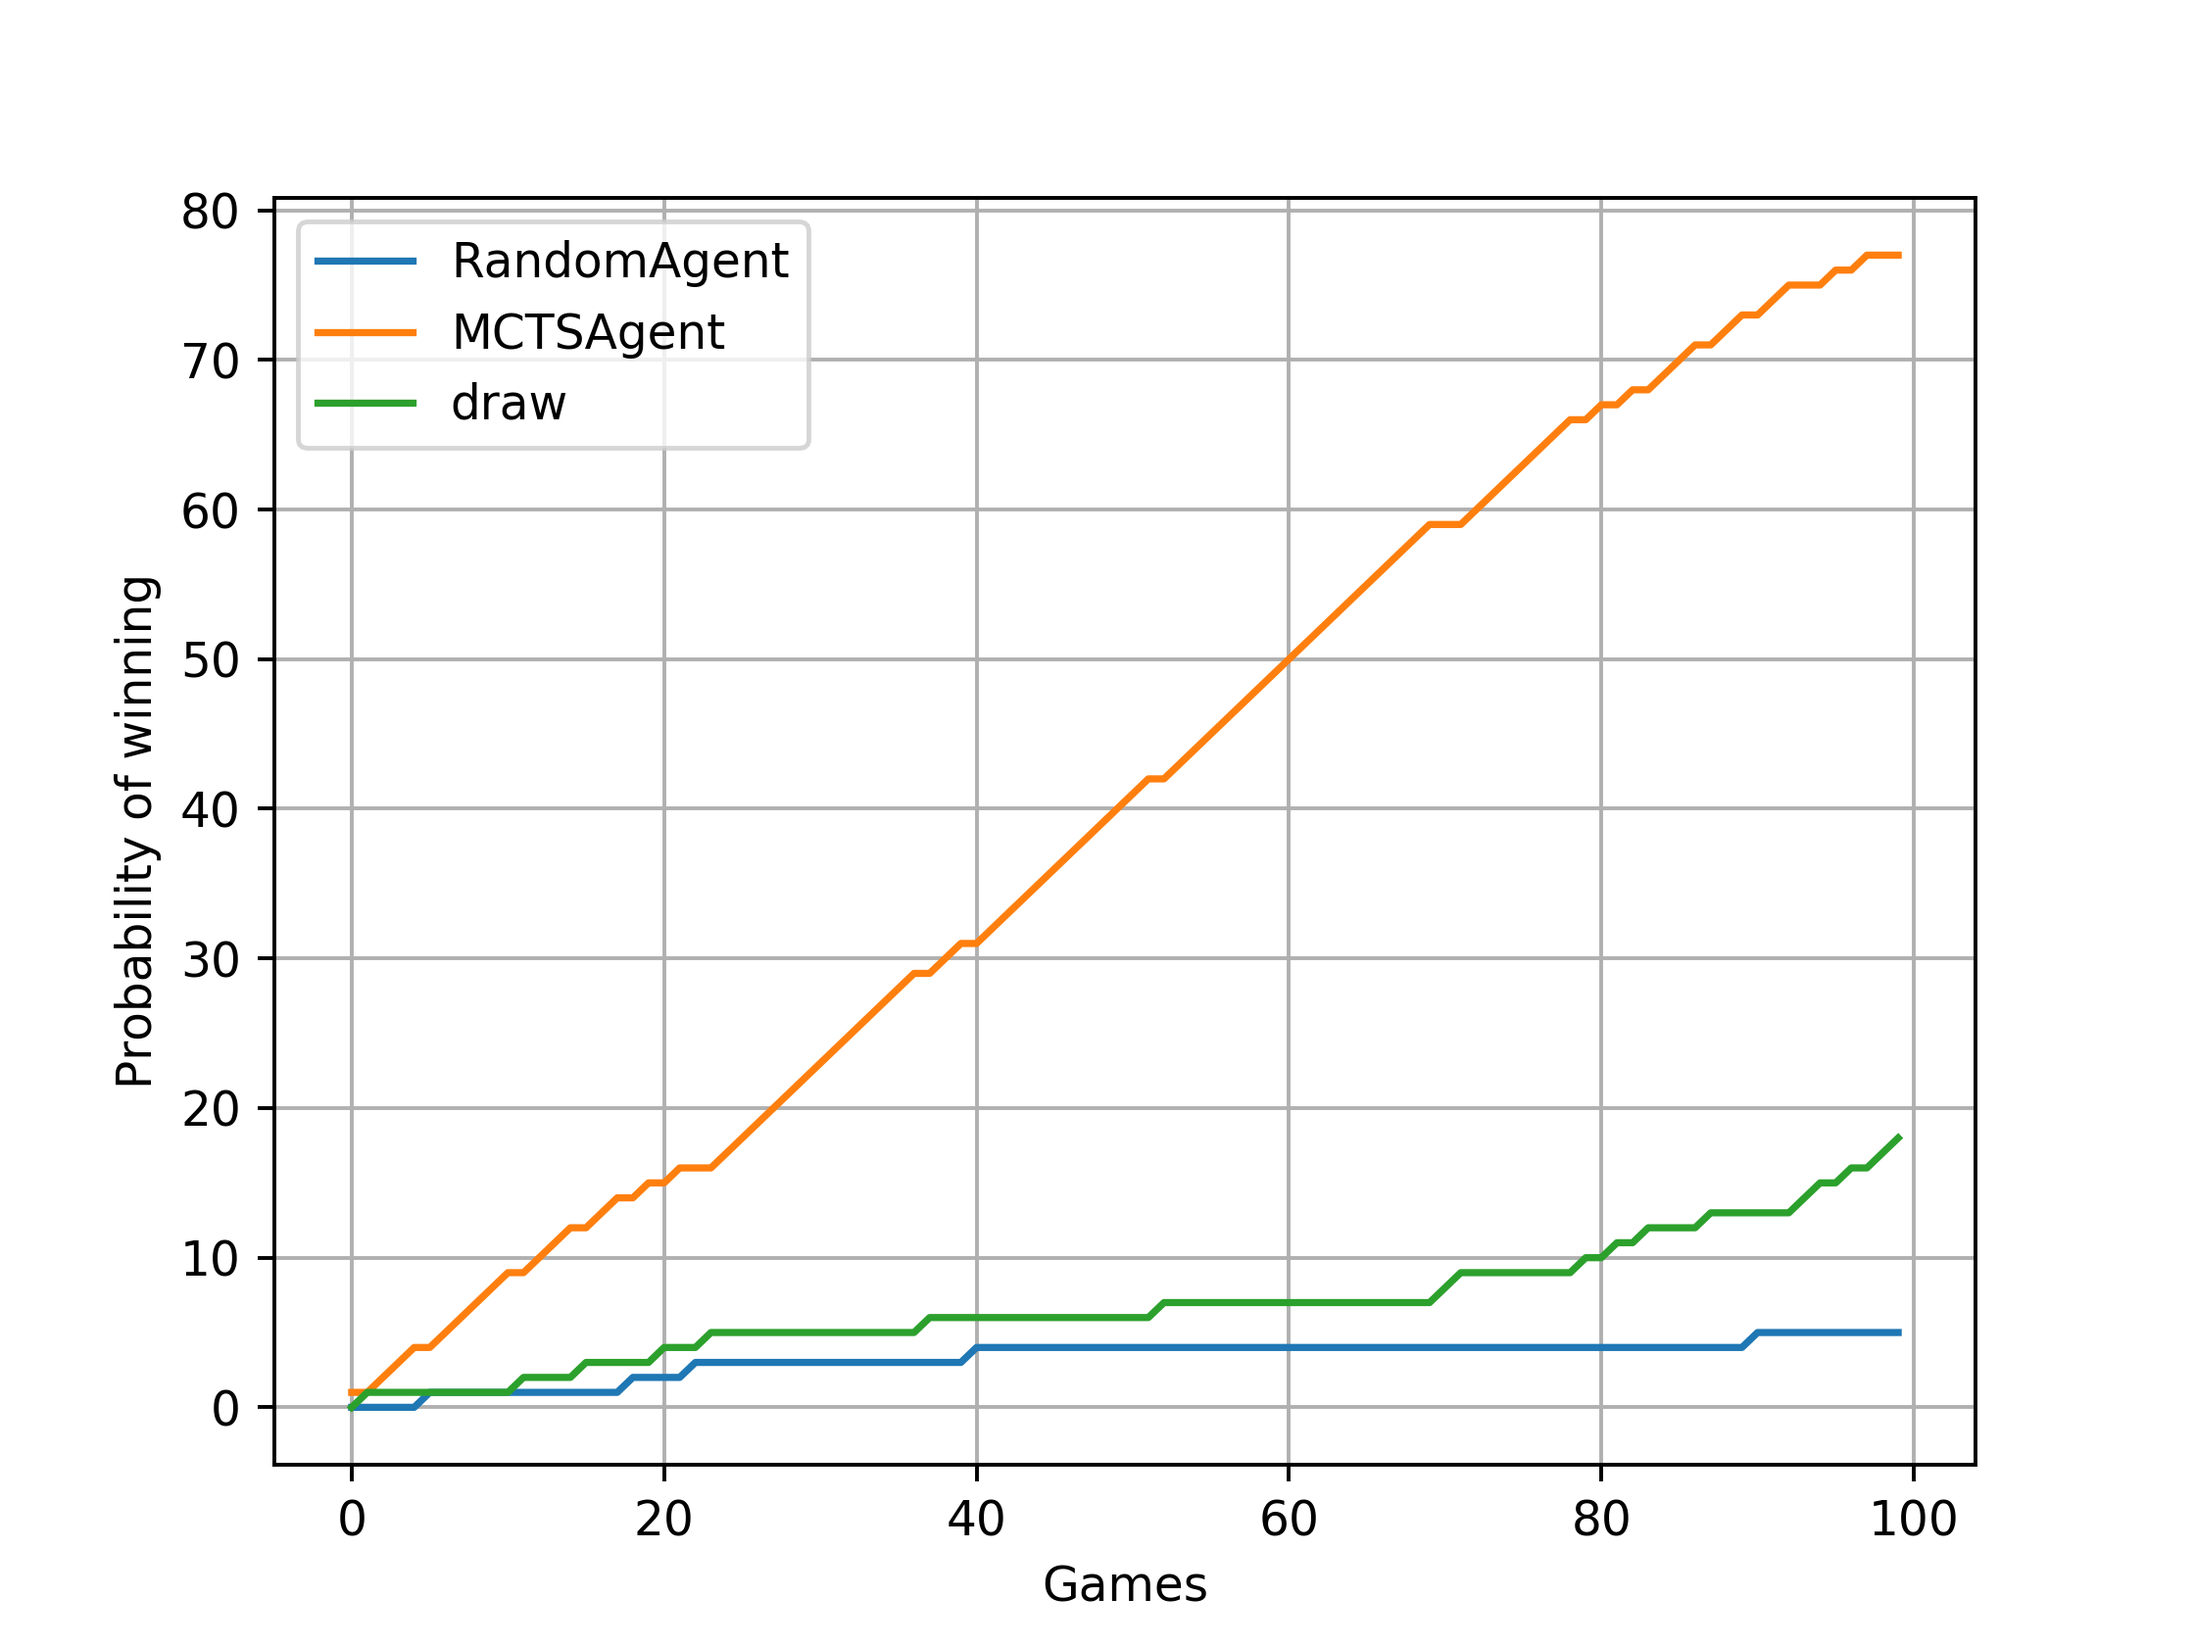
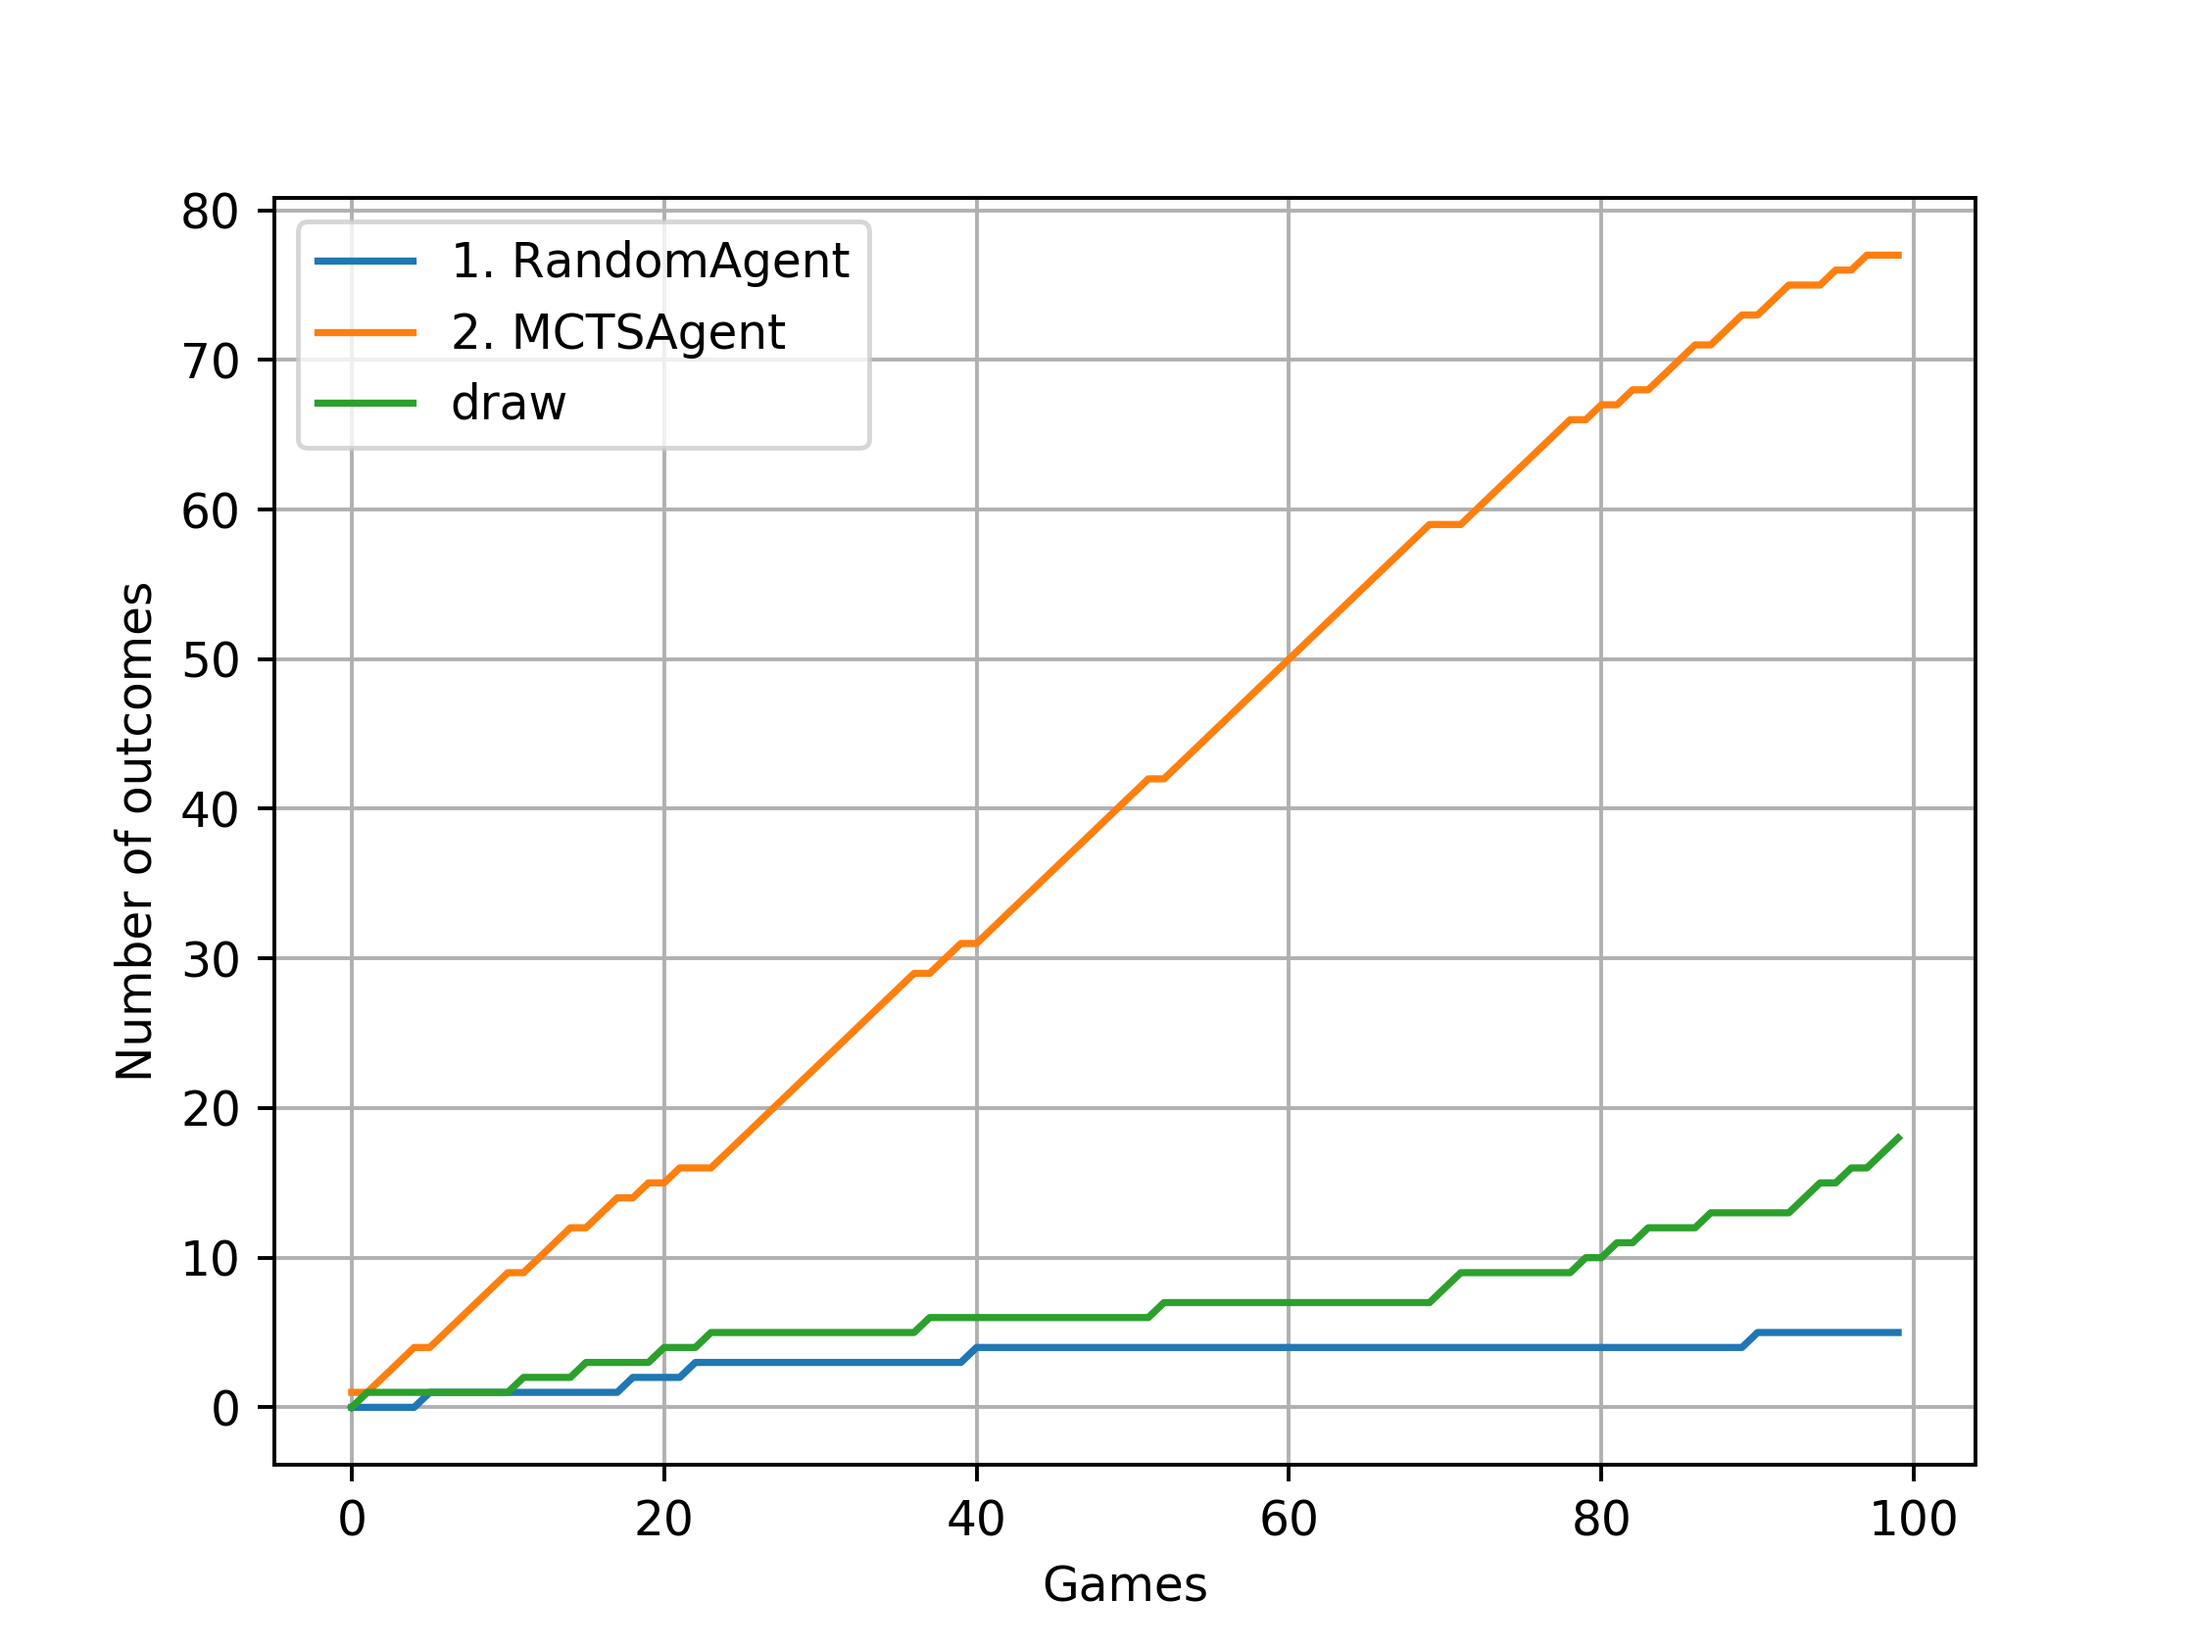
Added more plots

diff --git a/plotter.py b/plotter.py
@@ -5,26 +5,120 @@ import numpy as np
 with open('complete_data.json', 'r') as f:
     log = json.load(f)
 
-for i, agent1 in enumerate(list(log.keys())):
-    for j, agent2 in enumerate(list(log.keys())):
-        plt.plot(np.array(log[agent1][agent2]['agent1'])/(np.arange(len(log[agent1][agent2]['agent1']))+1), label="1. "+agent1)
-        plt.plot(np.array(log[agent1][agent2]['agent2'])/(np.arange(len(log[agent1][agent2]['agent2']))+1), label="2. "+agent2)
-        plt.plot(np.array(log[agent1][agent2]['draw'])/(np.arange(len(log[agent1][agent2]['draw']))+1), label='draw')
-        plt.grid()
-        plt.legend()
-        plt.ylabel(r"Probability of winning")
-        plt.xlabel(r"Games")
-        plt.savefig("./plots/prob/{}_{}_{}_{}.png".format(i, j, agent1, agent2), dpi=350)
-        plt.close()
+# for i, agent1 in enumerate(list(log.keys())):
+#     for j, agent2 in enumerate(list(log.keys())):
+#         plt.plot(np.array(log[agent1][agent2]['agent1'])/(np.arange(len(log[agent1][agent2]['agent1']))+1), label="1. "+agent1)
+#         plt.plot(np.array(log[agent1][agent2]['agent2'])/(np.arange(len(log[agent1][agent2]['agent2']))+1), label="2. "+agent2)
+#         plt.plot(np.array(log[agent1][agent2]['draw'])/(np.arange(len(log[agent1][agent2]['draw']))+1), label='draw')
+#         plt.grid()
+#         plt.legend()
+#         plt.ylabel(r"Ration of outcome (outcome/ total games)")
+#         plt.xlabel(r"Games")
+#         plt.savefig("./plots/prob/{}_{}_{}_{}.png".format(i, j, agent1, agent2), dpi=350)
+#         plt.close()
+#
+# for i, agent1 in enumerate(list(log.keys())):
+#     for j, agent2 in enumerate(list(log.keys())):
+#         plt.plot(np.array(log[agent1][agent2]['agent1']), label="1. "+agent1)
+#         plt.plot(np.array(log[agent1][agent2]['agent2']), label="2. "+agent2)
+#         plt.plot(np.array(log[agent1][agent2]['draw']), label='draw')
+#         plt.grid()
+#         plt.legend()
+#         plt.ylabel(r"Number of outcomes")
+#         plt.xlabel(r"Games")
+#         plt.savefig("./plots/runs/{}_{}_{}_{}.png".format(i, j, agent1, agent2), dpi=350)
+#         plt.close()
 
-for i, agent1 in enumerate(list(log.keys())):
-    for j, agent2 in enumerate(list(log.keys())):
-        plt.plot(np.array(log[agent1][agent2]['agent1']), label=agent1)
-        plt.plot(np.array(log[agent1][agent2]['agent2']), label=agent2)
-        plt.plot(np.array(log[agent1][agent2]['draw']), label='draw')
-        plt.grid()
-        plt.legend()
-        plt.ylabel(r"Probability of winning")
-        plt.xlabel(r"Games")
-        plt.savefig("./plots/runs/{}_{}_{}_{}.png".format(i, j, agent1, agent2), dpi=350)
-        plt.close()
+# plt.bar(np.arange(len(hist_list)), hist_list, width=0.35, zorder = 3)
+# plt.xticks(np.arange(len(hist_names)), hist_names)
+# plt.xlabel("Method")
+# plt.ylabel("Number of draws")
+# plt.title("Number of draws of a method vs MiniMax Agent (First turn of MiniMax)")
+# plt.grid()
+# plt.savefig("./plots/draw_histogram_minimax_first.png")
+
+''' Stacked bar graph if other method plays first '''
+
+draw_list = np.zeros(len(log))
+win_list = np.zeros(len(log))
+lose_list = np.zeros(len(log))
+hist_names = []
+for i, agent in enumerate(list(log.keys())):
+    draws = log[agent]['MiniMaxAgent']['draw'][-1]
+    lose = log[agent]['MiniMaxAgent']['agent2'][-1]
+    win = log[agent]['MiniMaxAgent']['agent1'][-1]
+    draw_list[i] = draws
+    win_list[i] = win
+    lose_list[i] = lose
+    hist_names.append(agent.split('Agent')[0])
+
+
+ind = np.arange(len(hist_names))
+width = 0.35
+p1 = plt.bar(ind, win_list, width, zorder=2)
+p2 = plt.bar(ind, lose_list, width, bottom=win_list, zorder=2)
+p3 = plt.bar(ind, draw_list, width, bottom=win_list+lose_list, zorder=2)
+plt.xlabel("Method")
+plt.grid()
+plt.ylabel("Number of draws")
+plt.title("Wins, draws and loses vs MiniMax Agent (Second turn of MiniMax)")
+plt.xticks(ind, hist_names)
+plt.yticks(np.arange(0, 120, 10))
+plt.legend((p1[0], p2[0], p3[0]), ('win', 'lose', 'draw'))
+
+for r1, r2, r3 in zip(p1, p2, p3):
+    h1 = r1.get_height()
+    h2 = r2.get_height()
+    h3 = r3.get_height()
+    if h1 != 0:
+        plt.text(r1.get_x() + r1.get_width() / 2., h1 / 2., "%d" % h1, ha="center", va="center", color="white", fontsize=8, fontweight="bold")
+    if h2 != 0:
+        plt.text(r2.get_x() + r2.get_width() / 2., h1 + h2 / 2., "%d" % h2, ha="center", va="center", color="white", fontsize=8, fontweight="bold")
+    if h3 != 0:
+        plt.text(r3.get_x() + r3.get_width() / 2., h1 + h2 + h3/ 3., "%d" % h3, ha="center", va="center", color="white", fontsize=8, fontweight="bold")
+
+plt.savefig("./plots/stackplot_minimax_second.png", dpi=350)
+plt.close()
+
+''' Stacked bar graph if MiniMax plays first '''
+
+draw_list = np.zeros(len(log))
+win_list = np.zeros(len(log))
+lose_list = np.zeros(len(log))
+hist_names = []
+for i, agent in enumerate(list(log.keys())):
+    draws = log['MiniMaxAgent'][agent]['draw'][-1]
+    win = log['MiniMaxAgent'][agent]['agent2'][-1]
+    lose = log['MiniMaxAgent'][agent]['agent1'][-1]
+    draw_list[i] = draws
+    win_list[i] = win
+    lose_list[i] = lose
+    hist_names.append(agent.split('Agent')[0])
+
+
+ind = np.arange(len(hist_names))
+width = 0.35
+p1 = plt.bar(ind, win_list, width, zorder=2)
+p2 = plt.bar(ind, lose_list, width, bottom=win_list, zorder=2)
+p3 = plt.bar(ind, draw_list, width, bottom=win_list+lose_list, zorder=2)
+plt.xlabel("Method")
+plt.grid()
+plt.ylabel("Number of draws")
+plt.title("Wins, draws and loses vs MiniMax Agent (First turn of MiniMax)")
+plt.xticks(ind, hist_names)
+plt.yticks(np.arange(0, 120, 10))
+plt.legend((p1[0], p2[0], p3[0]), ('win', 'lose', 'draw'))
+
+for r1, r2, r3 in zip(p1, p2, p3):
+    h1 = r1.get_height()
+    h2 = r2.get_height()
+    h3 = r3.get_height()
+    if h1 != 0:
+        plt.text(r1.get_x() + r1.get_width() / 2., h1 / 2., "%d" % h1, ha="center", va="center", color="white", fontsize=8, fontweight="bold")
+    if h2 != 0:
+        plt.text(r2.get_x() + r2.get_width() / 2., h1 + h2 / 2., "%d" % h2, ha="center", va="center", color="white", fontsize=8, fontweight="bold")
+    if h3 != 0:
+        plt.text(r3.get_x() + r3.get_width() / 2., h1 + h2 + h3/ 3., "%d" % h3, ha="center", va="center", color="white", fontsize=8, fontweight="bold")
+
+plt.savefig("./plots/stackplot_minimax_first.png", dpi=350)
+plt.show()

diff --git a/runner.py b/runner.py
@@ -49,6 +49,6 @@ for agent1 in list(agents.keys()):
         wins['draw'] = wins['draw'].tolist()
         log[agent1][agent2] = wins
 
-with open('./complete_data.json', 'w') as f:
+with open('./complete_data_2.json', 'w') as f:
     json.dump(log, f, indent = 4)
 # plt.plot(winner['RandomAgent']['RandomAgent'])
